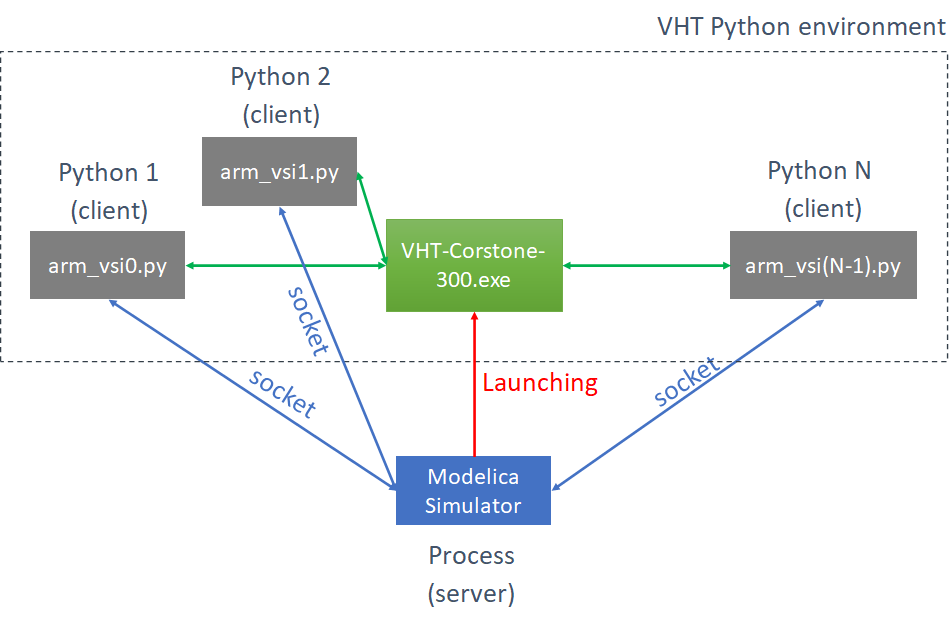
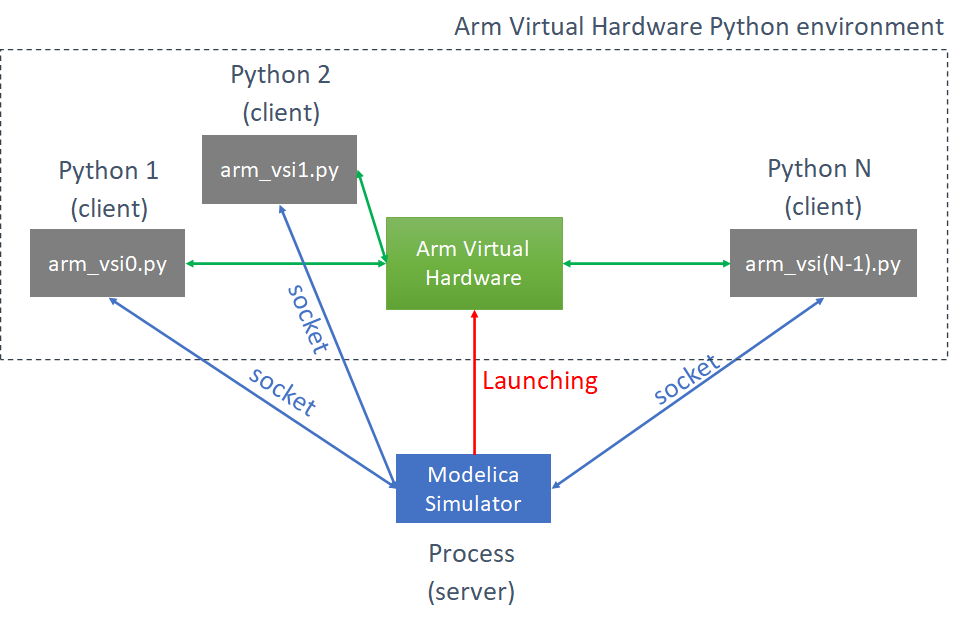
Updated the VHT path in the MDK project.
Updated the documentation.

diff --git a/EchoCanceller/Documentation/DEMO.md b/EchoCanceller/Documentation/DEMO.md
@@ -2,16 +2,16 @@
 
 ## Introduction
 
-This demo is integrating software for an echo canceller and keyword spotting. The code is running on a Cortex-M55 on the [ARM Virtual Hardware](https://arm-software.github.io/VHT/main/overview/html/index.html) (VHT). The VHT is interacting with a model of the room acoustic implemented with [OpenModelica](https://www.openmodelica.org/).
+This demo is integrating software for an echo canceller and keyword spotting. The code is running on a Cortex-M55 on the [ARM Virtual Hardware](https://arm-software.github.io/VHT/main/overview/html/index.html) . The [Arm Virtual Hardware](https://arm-software.github.io/VHT/main/overview/html/index.html) is interacting with a model of the room acoustic implemented with [OpenModelica](https://www.openmodelica.org/).
 
 The simulation is containing two simulators:
 
-- The [ARM Virtual Hardware](https://arm-software.github.io/VHT/main/overview/html/index.html) (VHT) where the Cortex-M55 application is run
+- The [ARM Virtual Hardware](https://arm-software.github.io/VHT/main/overview/html/index.html) where the Cortex-M55 application is run
 - The simulator generated with  [OpenModelica](https://www.openmodelica.org/). It is implementing a model of the room acoustic : it is a digital twin
 
-The simulator is launching the [VHT](https://arm-software.github.io/VHT/main/overview/html/index.html).
+The simulator is launching the [Arm Virtual Hardware](https://arm-software.github.io/VHT/main/overview/html/index.html) .
 
-The [VHT](https://arm-software.github.io/VHT/main/overview/html/index.html) is connecting to the [Modelica](https://www.openmodelica.org/) simulator using sockets.
+The [Arm Virtual Hardware](https://arm-software.github.io/VHT/main/overview/html/index.html) is connecting to the [Modelica](https://www.openmodelica.org/) simulator using sockets.
 
 ![architecture](architecture.png)
 
@@ -83,7 +83,11 @@ This architecture can be implemented with different blocks (the diagram will be 
 We are using two different implementations:
 
 * WavEcho : The echo canceller is not used. The block is just propagating the signals 
-* VHTEcho : the `echoCanceller` block is implemented with the VHT block and the VHT is running the [speex DSP library](https://gitlab.xiph.org/xiph/speexdsp) and the [CMSIS-DSP Synchronous Dataflow](https://github.com/ARM-software/CMSIS_5/tree/develop/CMSIS/DSP/SDFTools) 
+* VHTEcho : the `echoCanceller` block including a VHT block
+
+VHT is the implementation of the [Arm Virtual Hardware](https://arm-software.github.io/VHT/main/overview/html/index.html) we are using and it means : Virtual Hardware Target. The VHT Modelica block is implementing the communication between the Modelica simulator and the [Arm Virtual Hardware](https://arm-software.github.io/VHT/main/overview/html/index.html) 
+
+The [speex DSP library](https://gitlab.xiph.org/xiph/speexdsp), [Microspeech](https://github.com/tensorflow/tflite-micro/tree/main/tensorflow/lite/micro/examples/micro_speech) network and the [CMSIS-DSP Synchronous Dataflow](https://github.com/ARM-software/CMSIS_5/tree/develop/CMSIS/DSP/SDFTools) are running on the [Arm Virtual Hardware](https://arm-software.github.io/VHT/main/overview/html/index.html) .
 
 The [Modelica](https://www.openmodelica.org/) ARM libraries for this example (as displayed in `OMEdit`) are:
 
@@ -165,7 +169,7 @@ It is encoded by the script `graph.py` in folder `sources`. The SDF is generatin
 
 The scheduling of the SDF is only based upon the data flow dependencies. If we need to implement additional constraints coming from the environment, then we need to express those constraints as new data flow dependencies.
 
-To ensure that VHT and Modelica will be able to interact without dead lock due to the feedback loop, we need to interleave the input and output nodes in the SDF scheduling.
+To ensure that the [Arm Virtual Hardware](https://arm-software.github.io/VHT/main/overview/html/index.html) and Modelica will be able to interact without dead lock due to the feedback loop, we need to interleave the input and output nodes in the SDF scheduling.
 
 The easier way to do it is by:
 
@@ -177,9 +181,9 @@ The edge with a FIFO of size 1 between `allMics` and `allSpeakers` is enforcing 
 
 #### MFCC
 
-It is the MFCC like processing done by the original Microspeech example.
+It is the MFCC like processing done by the original [Microspeech](https://github.com/tensorflow/tflite-micro/tree/main/tensorflow/lite/micro/examples/micro_speech) example.
 
-It is doing a bit more than just a MFCC since there is some noise reduction and gain control so in original Microspeech it is not named MFCC.
+It is doing a bit more than just a MFCC since there is some noise reduction and gain control so in original [Microspeech](https://github.com/tensorflow/tflite-micro/tree/main/tensorflow/lite/micro/examples/micro_speech) it is not named MFCC.
 
 #### Recognition frequency
 
@@ -223,7 +227,7 @@ At this point, the script cannot know what is the DMA buffer size. So it is hard
 
 It adds one additional packet of delay when doing an input -> output in SDF. So a total of 3 packets of delay.  The SDF flow being responsible for 2.
 
-For the VHT <-> Modelica communication protocol : each script is identifying itself at connection with:
+For the [Arm Virtual Hardware](https://arm-software.github.io/VHT/main/overview/html/index.html) <-> Modelica communication protocol : each script is identifying itself at connection with:
 
 * The type of IO (input or output)
 * The ID (starting at 0 for input and output)
@@ -280,9 +284,9 @@ Used for the room modeling since the output of `pyroomacoustic` is a digital FIR
 
 The README in the microspeech folder is listing all changes done to the microspeech files.
 
-The files in this folder are covered by Microspeech license.
+The files in this folder are covered by [Microspeech](https://github.com/tensorflow/tflite-micro/tree/main/tensorflow/lite/micro/examples/micro_speech) license.
 
-We are not using the Kiss FFT from Microspeech but the one from `speex` which normally is the same. But `speex` is adding a variation on the API. The current CMSIS-Packs used for TFLite have a dependency on the KissFFT pack.  To avoid name conflict, the KissFFT in libspeex has been renamed to `speexdsp_kiss_fft`
+We are not using the Kiss FFT from [Microspeech](https://github.com/tensorflow/tflite-micro/tree/main/tensorflow/lite/micro/examples/micro_speech) but the one from `speex` which normally is the same. But `speex` is adding a variation on the API. The current CMSIS-Packs used for TFLite have a dependency on the KissFFT pack.  To avoid name conflict, the KissFFT in libspeex has been renamed to `speexdsp_kiss_fft`
 
 
 

diff --git a/EchoCanceller/Documentation/BUILDANDRUN.md b/EchoCanceller/Documentation/BUILDANDRUN.md
@@ -50,7 +50,7 @@ Just get the [Windows version](https://www.openmodelica.org/download/download-wi
 
 `git clone https://github.com/ARM-software/VHT-SystemModeling.git`
 
-## Building the .axf to be run on the VHT with CMSIS command line tools
+## Building the .axf to be run on the Arm Virtual Hardware with CMSIS command line tools
 
 `cd VHT-SystemModeling/EchoCanceller`
 
@@ -109,7 +109,7 @@ This script will :
 - compile the [Modelica](https://www.openmodelica.org/) model to C code
 - compile the C code to generate a [Modelica](https://www.openmodelica.org/) simulator
 - Update the parameters of the simulation
-- Launch the [Modelica](https://www.openmodelica.org/) simulator (which will launch the [VHT](https://arm-software.github.io/VHT/main/overview/html/index.html))
+- Launch the [Modelica](https://www.openmodelica.org/) simulator (which will launch the [Arm Virtual Hardware](https://arm-software.github.io/VHT/main/overview/html/index.html) )
 - Generate a plot from the output of the [Modelica](https://www.openmodelica.org/) simulator using Python
 
 #### Simulator building phase
@@ -134,11 +134,13 @@ If you're running in local, your paths may be different.
 
 #### Simulation running phase
 
-If this is successful and the [VHT](https://arm-software.github.io/VHT/main/overview/html/index.html) has been launched, you should see the output:
+If this is successful and the [Arm Virtual Hardware](https://arm-software.github.io/VHT/main/overview/html/index.html) has been launched, you should see the output:
 
 ![simulatorStart](simulatorStart.PNG)
 
-It is a mix of output from the [VHT](https://arm-software.github.io/VHT/main/overview/html/index.html) and from the [Modelica](https://www.openmodelica.org/) simulator.
+It is a mix of output from the [Arm Virtual Hardware](https://arm-software.github.io/VHT/main/overview/html/index.html) and from the [Modelica](https://www.openmodelica.org/) simulator.
+
+VHT is the name of the implementation of the [Arm Virtual Hardware](https://arm-software.github.io/VHT/main/overview/html/index.html) which is used and it means : Virtual Hardware Target.
 
 Once the simulation has booted, you should start to see some keyword recognition in the console.
 
@@ -166,9 +168,9 @@ You can also use the scripts with the option noecho
 - `sh buildAndRun.sh noecho`
 - `sh run.sh noecho`
 
-With the option `noecho`, the [Modelica](https://www.openmodelica.org/) simulator used will be `Echo.WavEcho` instead of `Echo.VHTEcho`. This simulator is not using the [VHT](https://arm-software.github.io/VHT/main/overview/html/index.html). The VHT block is replaced by a pass-through block. The simulation will generate a `signalWithEcho.wav` with no echo cancellation. It is useful to have an idea of what is the signal with no pre-processing.
+With the option `noecho`, the [Modelica](https://www.openmodelica.org/) simulator used will be `Echo.WavEcho` instead of `Echo.VHTEcho`. This simulator is not using the [Arm Virtual Hardware](https://arm-software.github.io/VHT/main/overview/html/index.html) . The VHT block is replaced by a pass-through block. The simulation will generate a `signalWithEcho.wav` with no echo cancellation. It is useful to have an idea of what is the signal with no pre-processing.
 
-This is not exactly the same signal has the one used by the VHT because the VHT signal processing chain is adding a small delay in the loop. So the far end source is slightly delayed compared to the simulation with no VHT.
+This is not exactly the same signal has the one used by the [Arm Virtual Hardware](https://arm-software.github.io/VHT/main/overview/html/index.html) because the signal processing chain running on [Arm Virtual Hardware](https://arm-software.github.io/VHT/main/overview/html/index.html) is adding a small delay in the loop. So the far end source is slightly delayed compared to the simulation with no signal processing.
 
 If you use the `run.sh` script, you must use the `buildAndRun.sh` script at least once before and with the same option.
 
@@ -198,7 +200,7 @@ If you don't want to use the command line for building and running the simulatio
 
 If you're building in the cloud, you need to connect with [VNC](https://arm-software.github.io/VHT/main/infrastructure/html/run_ami_local.html#use_vnc) as explained on our [documentation](https://arm-software.github.io/VHT/main/infrastructure/html/run_ami_local.html#use_vnc)
 
-On Linux, to be sure the paths are set correctly and the VHT libraries can be found by [OpenModelica](https://www.openmodelica.org/), you need to launch `OMEdit` from a shell. Here is the expected output when you do it in the cloud (the IP displayed will depend on your VM in the cloud):
+On Linux, to be sure the paths are set correctly and the [Arm Virtual Hardware](https://arm-software.github.io/VHT/main/overview/html/index.html)  libraries can be found by [OpenModelica](https://www.openmodelica.org/), you need to launch `OMEdit` from a shell. Here is the expected output when you do it in the cloud (the IP displayed will depend on your VM in the cloud):
 
 ![LaunchOMEditFromShell](LaunchOMEditFromShell.PNG)
 
@@ -266,7 +268,7 @@ You can use the `ARM.SDF.0.3.0.pack`.
 
 ### Running
 
-In case of the use of an IDE, [OpenModelica](https://www.openmodelica.org/) must not launch the VHT since the VHT will be launched from the IDE.
+In case of the use of an IDE, [OpenModelica](https://www.openmodelica.org/) must not launch the [Arm Virtual Hardware](https://arm-software.github.io/VHT/main/overview/html/index.html) since the [Arm Virtual Hardware](https://arm-software.github.io/VHT/main/overview/html/index.html) will be launched from the IDE.
 
 The `params.py` script in folder `BuildC` must be modified to disable the automatic launch:
 
@@ -276,11 +278,11 @@ The `params.py` script in folder `BuildC` must be modified to disable the automa
 
 Once this change is done, you first launch the Modelica simulator as explained above either using the `run.sh`/`run.bat` script or the `buildAndRun.sh`
 
-The simulator will launch and wait for a VHT to connect. You should see:
+The simulator will launch and wait for an [Arm Virtual Hardware](https://arm-software.github.io/VHT/main/overview/html/index.html) to connect. You should see:
 
 ![WaitForVHT](WaitForVHT.PNG)
 
-Then, you can go to your IDE and launch the simulation. VHT will be launched and will connect to the Modelica simulation.
+Then, you can go to your IDE and launch the simulation. [Arm Virtual Hardware](https://arm-software.github.io/VHT/main/overview/html/index.html) will be launched and will connect to the Modelica simulation.
 
 You should see the simulation starting in the Modelica simulator's console:
 

diff --git a/EchoCanceller/README.md b/EchoCanceller/README.md
@@ -1,12 +1,12 @@
-# Echo Canceller and Keyword spotting on ARM Virtual Hardware
+# Echo Canceller and Keyword spotting on Arm Virtual Hardware
 
-This demo is integrating software for an echo canceller and keyword spotting. The code is running on a Cortex-M55 on the [ARM Virtual Hardware](https://arm-software.github.io/VHT/main/overview/html/index.html) (VHT). The VHT is interacting with a model of the room acoustic implemented with [OpenModelica](https://www.openmodelica.org/).
+This demo is integrating software for an echo canceller and keyword spotting. The code is running on a Cortex-M55 on the [Arm Virtual Hardware](https://arm-software.github.io/VHT/main/overview/html/index.html). The  [Arm Virtual Hardware](https://arm-software.github.io/VHT/main/overview/html/index.html) is interacting with a model of the room acoustic implemented with [OpenModelica](https://www.openmodelica.org/).
 
 - [Quick start in the cloud](Documentation/QUICKSTART.md)
 - [More details about how to build and run the demo](Documentation/BUILDANDRUN.md)
   - On the cloud or in local
   - On Linux or on Windows
-  - From command line or using an IDE
+  - Building from command line or using an IDE
 - [Understanding what is inside the demo](Documentation/DEMO.md)
 
 ## Quick introduction
@@ -15,12 +15,12 @@ For more details, see the above links.
 
 The simulation is containing two simulators:
 
-- The [ARM Virtual Hardware](https://arm-software.github.io/VHT/main/overview/html/index.html) (VHT) where the Cortex-M55 application is run
+- The [Arm Virtual Hardware](https://arm-software.github.io/VHT/main/overview/html/index.html) where the Cortex-M55 application is run
 - The [OpenModelica](https://www.openmodelica.org/) generated simulator which is implementing the acoustic of the room : it is a digital twin
 
-The [OpenModelica](https://www.openmodelica.org/) generated simulator is launching the [VHT](https://arm-software.github.io/VHT/main/overview/html/index.html).
+The [OpenModelica](https://www.openmodelica.org/) generated simulator is launching the [Arm Virtual Hardware](https://arm-software.github.io/VHT/main/overview/html/index.html).
 
-The [VHT](https://arm-software.github.io/VHT/main/overview/html/index.html) is connecting to the [Modelica](https://www.openmodelica.org/) simulator using sockets.
+The [Arm Virtual Hardware](https://arm-software.github.io/VHT/main/overview/html/index.html) is connecting to the [Modelica](https://www.openmodelica.org/) simulator using sockets.
 
 ![architecture](Documentation/architecture.png)
 

diff --git a/EchoCanceller/Documentation/QUICKSTART.md b/EchoCanceller/Documentation/QUICKSTART.md
@@ -59,7 +59,7 @@ This script will :
 - compile the [Modelica](https://www.openmodelica.org/) model to C code
 - compile the C code to generate a [Modelica](https://www.openmodelica.org/) simulator
 - Update the parameters of the simulation
-- Launch the [Modelica](https://www.openmodelica.org/) simulator (which will launch the [VHT](https://arm-software.github.io/VHT/main/overview/html/index.html))
+- Launch the [Modelica](https://www.openmodelica.org/) simulator (which will launch the [Arm Virtual Hardware](https://arm-software.github.io/VHT/main/overview/html/index.html) )
 - Generate a plot from the output of the [Modelica](https://www.openmodelica.org/) simulator using Python
 
 During compilation of the [Modelica](https://www.openmodelica.org/) model to C code, you should see (on the cloud):
@@ -78,11 +78,11 @@ true
 
 If you see any false, it means one of the commands in the script `echoLinux.mos` has failed.
 
-If this is successful and the [VHT](https://arm-software.github.io/VHT/main/overview/html/index.html) has been launched, you should see the output:
+If this is successful and the [Arm Virtual Hardware](https://arm-software.github.io/VHT/main/overview/html/index.html) has been launched, you should see the output:
 
 ![simulatorStart](simulatorStart.PNG)
 
-It is a mix of output from the [VHT](https://arm-software.github.io/VHT/main/overview/html/index.html) and from the [Modelica](https://www.openmodelica.org/) simulator.
+It is a mix of output from the [Arm Virtual Hardware](https://arm-software.github.io/VHT/main/overview/html/index.html) and from the [Modelica](https://www.openmodelica.org/) simulator.
 
 Once the simulation has booted, you should start to see some keyword recognition in the console.
 

diff --git a/README.md b/README.md
@@ -1,6 +1,6 @@
 # VHT-SystemModeling
 
-This project is containing several demos where the [ARM Virtual Hardware](https://arm-software.github.io/VHT/main/overview/html/index.html) (VHT)  is connected to an external model of the world : a digital twin
+This project is containing several demos where the [ARM Virtual Hardware](https://arm-software.github.io/VHT/main/overview/html/index.html)  is connected to an external model of the world : a digital twin
 
 ## List of demos
 
